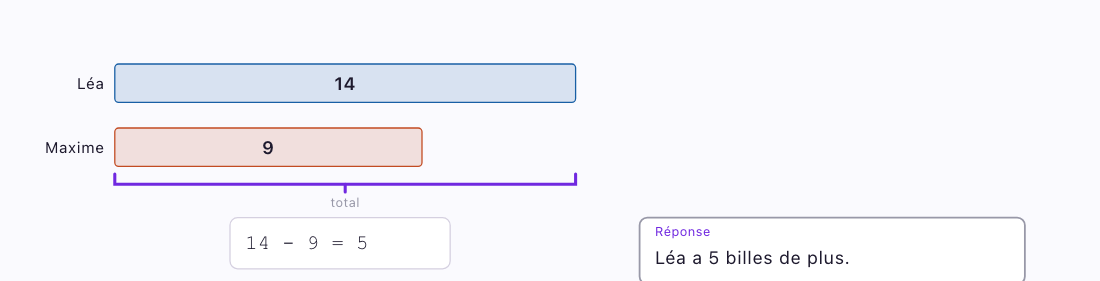
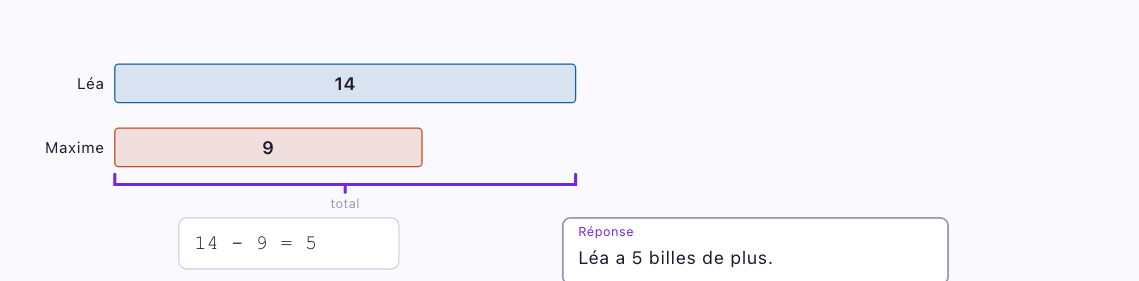
fix: améliorer screenshots exemples — schéma 2 exemples, crops ajustés
- Schéma : 2 exemples (parties-tout 20+15=35, comparaison Léa/Marc)
- Inconnue : crop élargi, accolade "total" non coupée
- Barre : crop élargi, Réponse visible complètement
- Tableau : fixture 2 colonnes (plus compact)
- Diagramme ligne : fixture 3 points fonctionnelle
- Texte HTML : exemples droite/arbre/diagrammes matchent les images

diff --git a/public/docs/catalogue-pieces.html b/public/docs/catalogue-pieces.html
@@ -306,9 +306,12 @@
       <ul><li>Décomposition : 35 bonbons = 20 rouges + 15 bleus</li><li>Comparaison : Léa a 14 billes, Marc en a 5 de moins</li><li>Multiplication : 3 sacs de 8 pommes</li><li>Transformation : il avait 35 $, il dépense 12 $</li></ul>
     </div>
     <div class="piece-example"><dl>
-      <dt>Exemple</dt>
-      <dd><em>« Un tout divisé en parties. »</em> — Placez un Schéma, choisissez le gabarit Parties-tout. Ajoutez des parties avec « + Partie ». L'accolade montre automatiquement le total. Nommez chaque partie et donnez les valeurs.
-      <img src="images/exemple-schema.png" alt="Schéma parties-tout avec accolade et total"></dd>
+      <dt>Exemple — Parties-tout</dt>
+      <dd><em>« 35 bonbons : 20 rouges et 15 bleus. »</em> — Gabarit Parties-tout. Les parties (20, 15) apparaissent dans la barre, l'accolade montre le total (35).
+      <img src="images/exemple-schema.png" alt="Schéma parties-tout : 20 + 15 = 35 avec accolade"></dd>
+      <dt>Exemple — Comparaison</dt>
+      <dd><em>« Léa a 14 billes, Marc en a 9. Combien de plus? »</em> — Gabarit Comparaison. Deux barres de tailles proportionnelles, l'accolade marque l'écart (?).
+      <img src="images/exemple-schema-comparaison-ex.png" alt="Schéma comparaison : Léa vs Marc avec écart ?"></dd>
     </dl></div>
   </div>
 </div>
